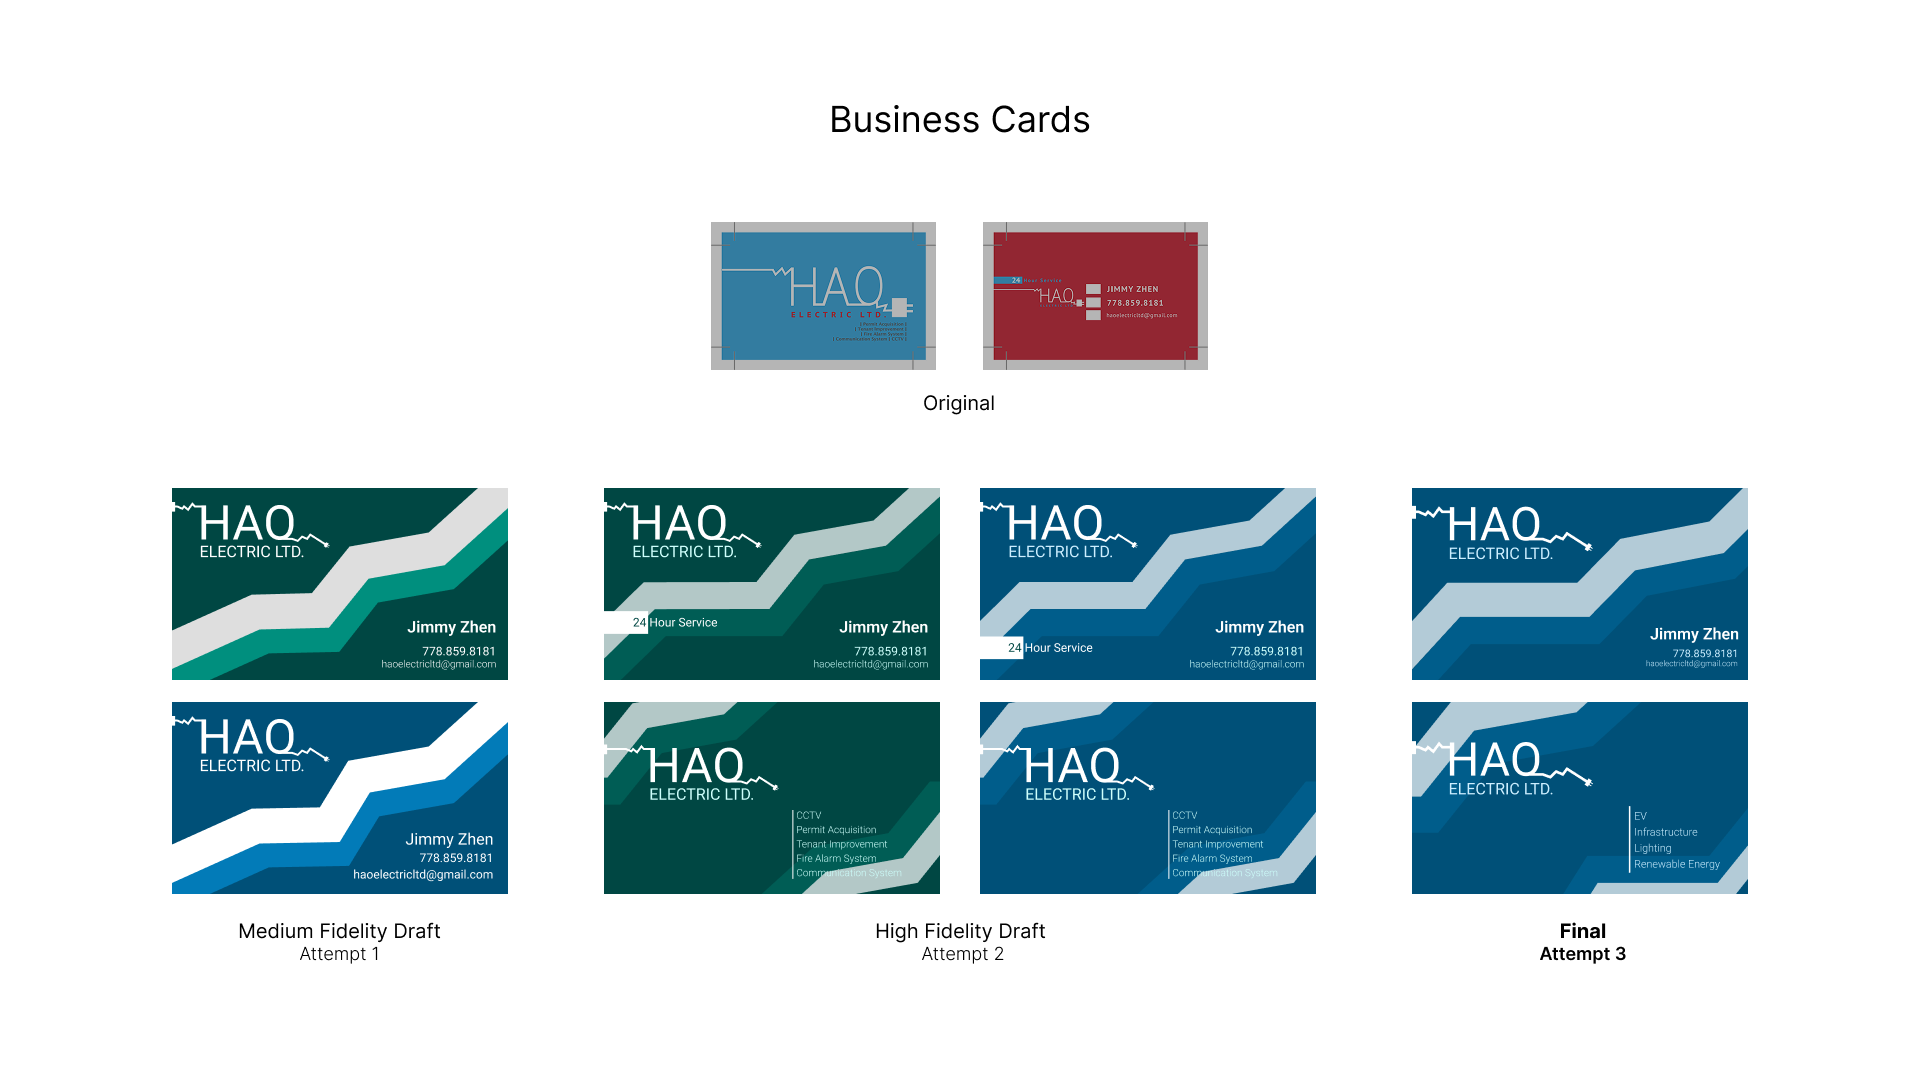
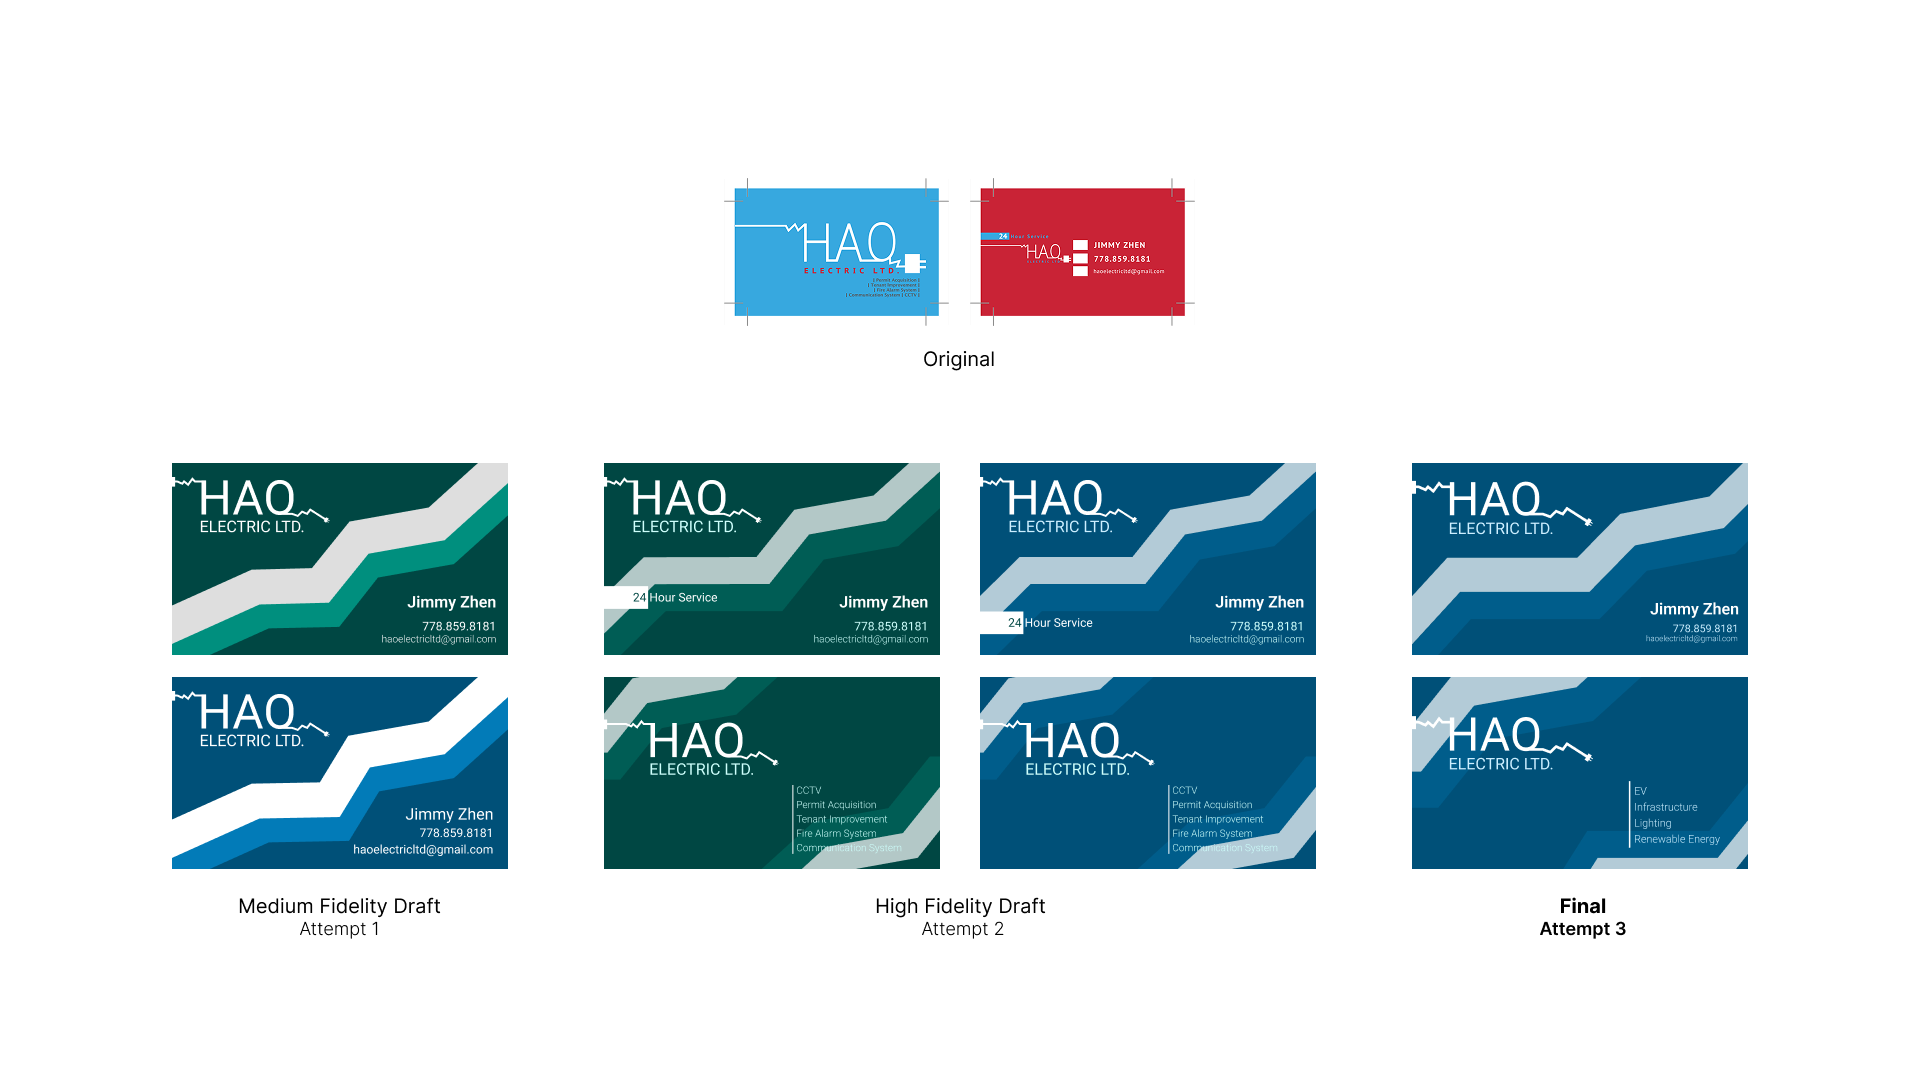
replaced img

diff --git a/main/graphic_designer.html b/main/graphic_designer.html
@@ -129,6 +129,13 @@
         <br>
 
         <h2>Concept & Ideations</h2>
+        <h3>Business Cards</h3>
+        <div class="image-heading-smaller">
+            <img src="https://ariellebeltran.github.io/portfolio/main/images/haoelectric_businesscards.png"
+                alt="An image of one of the HAO Electric mockup deliverables." width="800px" height="auto">
+            <figcaption>Redesigned to match the project deliverables.</figcaption>
+        </div>
+
         <h3>Business Placemat </h3>
         <p>A physical guide to help aide prospective clients of HAO Electric's goals and services.</p>
 
